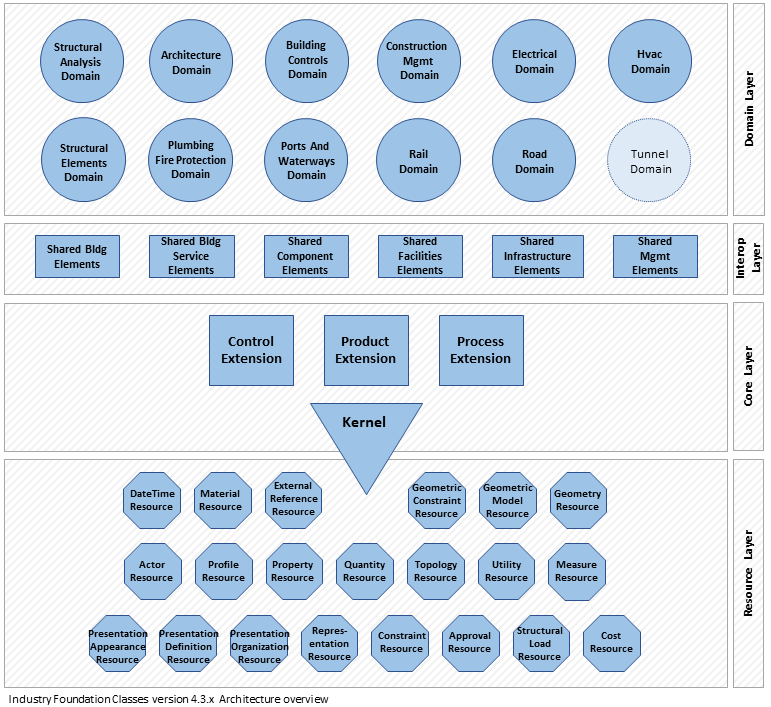
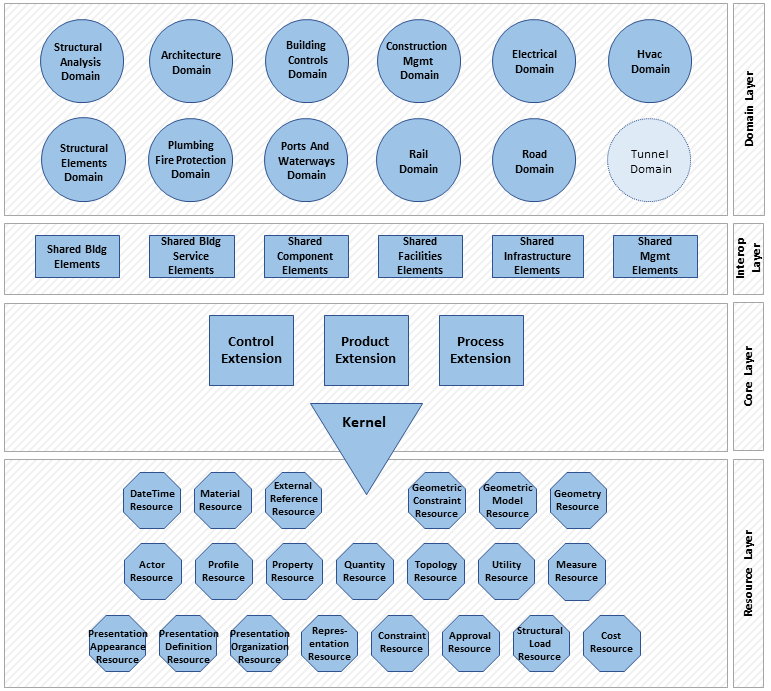
Take repo branch from version.py; crop figure caption

diff --git a/code/version.py b/code/version.py
@@ -2,11 +2,15 @@ import os
 import json
 import subprocess
 
-version_dict = json.load(open('version.json', encoding='utf-8'))
+CODE_DIR = os.path.dirname(os.path.abspath(__file__))
+
+version_dict = json.load(open(os.path.join(CODE_DIR, 'version.json'), encoding='utf-8'))
 version_tuple = version_dict['version']
 status = version_dict['status']
 status_number = list(version_dict['@status-options'].keys()).index(status)
 status_message = version_dict['@status-options'][status]
+# branch for the "edit on GitHub" links; CI sets REPO_BRANCH, locally ifcX.Y-main
+target_branch = os.environ.get('REPO_BRANCH') or f'ifc{version_tuple[0]}.{version_tuple[1]}-main'
 prefixes = ('IFC', 'X', '_ADD', '_TC')
 schema_version_string = ''.join(''.join(map(str, t)) if t[1] else '' for t in zip(prefixes, version_tuple))
 spec_version_string = f'IFC {".".join(map(str, version_tuple))}'

diff --git a/code/generators/html/builder.py b/code/generators/html/builder.py
@@ -34,13 +34,7 @@ from ..util.xmi_document import SCHEMA_NAME
 from . import md as mdp
 from git_history import page_history
 
-def _default_repo_branch():
-    v = json.load(open(Path(__file__).resolve().parents[2] / "version.json", encoding="utf-8"))
-    v = v["version"] if isinstance(v, dict) else v
-    return f"ifc{v[0]}.{v[1]}-main"
-
-
-REPO_BRANCH = os.environ.get("REPO_BRANCH") or _default_repo_branch()
+from version import target_branch as REPO_BRANCH
 REPO_DIR = os.path.abspath(os.path.join(os.path.dirname(__file__), "../../../"))
 DOC_ANNOTATION_PATTERN = re.compile(r"\{\s*\..+?\}")
 

diff --git a/code/generators/util/xmi_document.py b/code/generators/util/xmi_document.py
@@ -1,17 +1,9 @@
+from version import target_branch
+REPO_URL = f"https://github.com/buildingSMART/IFC4.x-development/edit/{target_branch}/"
+
 import csv
-import json
 import os
 from pathlib import Path
-
-
-def _default_repo_branch():
-    v = json.load(open(Path(__file__).resolve().parents[2] / "version.json", encoding="utf-8"))
-    v = v["version"] if isinstance(v, dict) else v
-    return f"ifc{v[0]}.{v[1]}-main"
-
-
-REPO_URL = f"https://github.com/buildingSMART/IFC4.x-development/edit/{os.environ.get('REPO_BRANCH') or _default_repo_branch()}/"
-
 import re
 import sys
 import html

diff --git a/code/xmi_document.py b/code/xmi_document.py
@@ -1,17 +1,9 @@
+from version import target_branch
+REPO_URL = f"https://github.com/buildingSMART/IFC4.x-development/edit/{target_branch}/"
+
 import csv
-import json
 import os
 from pathlib import Path
-
-
-def _default_repo_branch():
-    v = json.load(open(Path(__file__).resolve().parent / "version.json", encoding="utf-8"))
-    v = v["version"] if isinstance(v, dict) else v
-    return f"ifc{v[0]}.{v[1]}-main"
-
-
-REPO_URL = f"https://github.com/buildingSMART/IFC4.x-development/edit/{os.environ.get('REPO_BRANCH') or _default_repo_branch()}/"
-
 import re
 import sys
 import html

diff --git a/content/cover.md b/content/cover.md
@@ -8,7 +8,7 @@ This is a further elaboration of the ISO release without changes to the schema a
 
 <img src="../../../assets/img/Dongping.jpg" width="800">
 
-For those interested in contributing: this html is automatically generated from the latest published [XMI](https://github.com/buildingSMART/IFC4.x-development/tree/ifc4.3-main/schemas) (with the IFC schema) and [Markdown content](https://github.com/buildingSMART/IFC4.x-development/tree/ifc4.3-main/docs) (with the definitions and documentations).
+For those interested in contributing: this html is automatically generated from the latest published [XMI](https://github.com/buildingSMART/IFC4.x-development/tree/{{ branch }}/schemas) (with the IFC schema) and [Markdown content](https://github.com/buildingSMART/IFC4.x-development/tree/{{ branch }}/docs) (with the definitions and documentations).
 Use the 'edit on GitHub' button to suggest additional clarifications or typo fixes. Structural changes to the specification or semantic definitions are not allowed. Those are possible in the next version of IFC.
 
 ## Copyright
